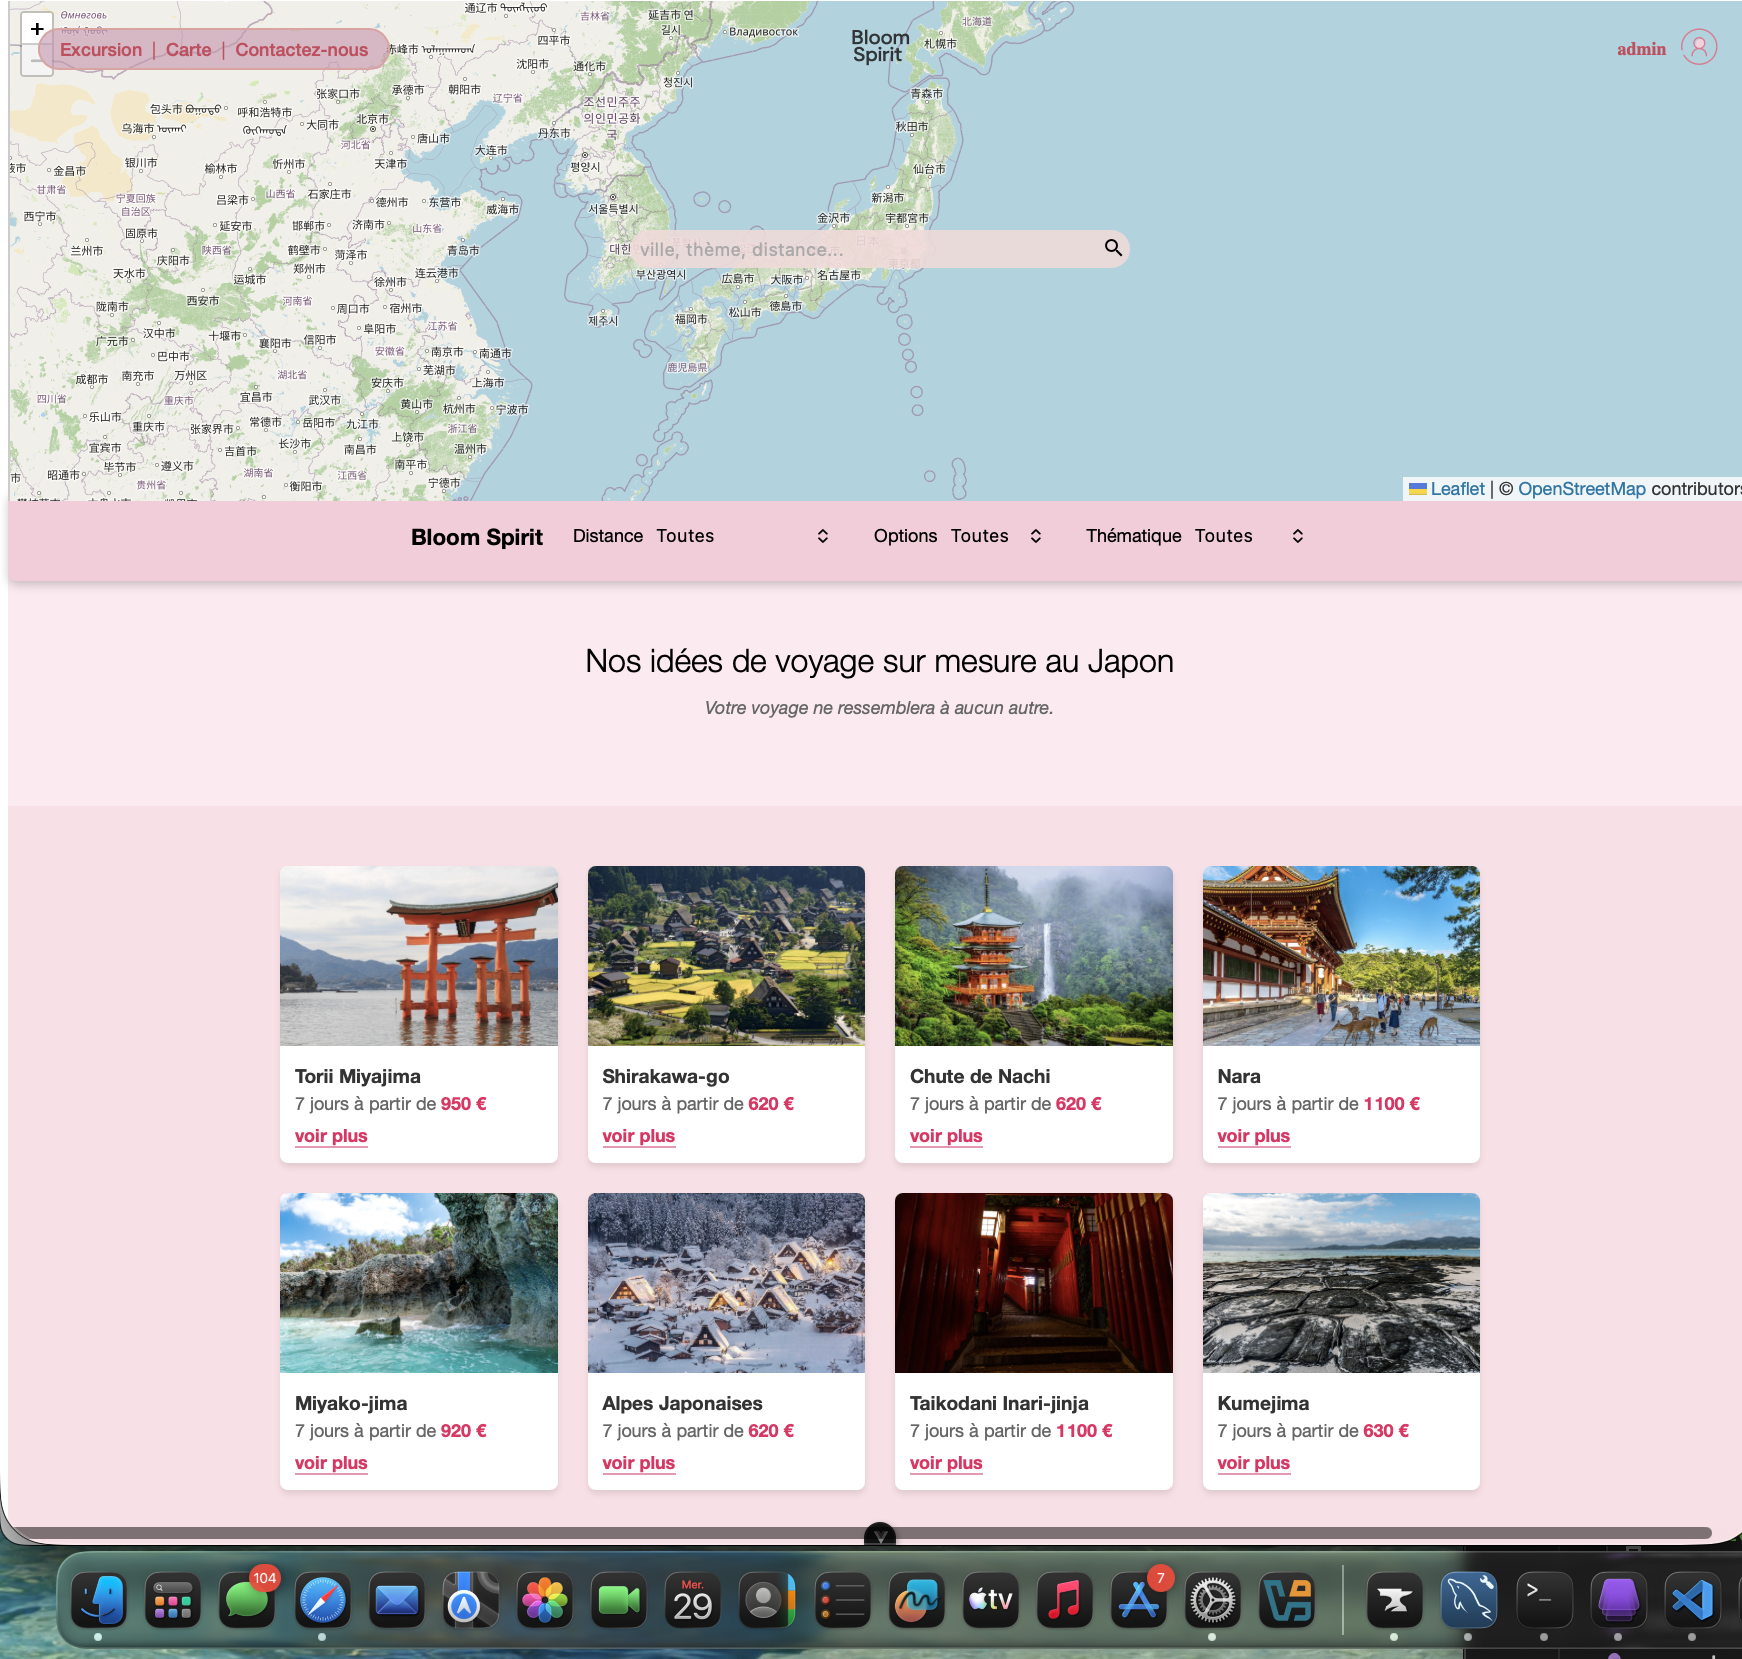
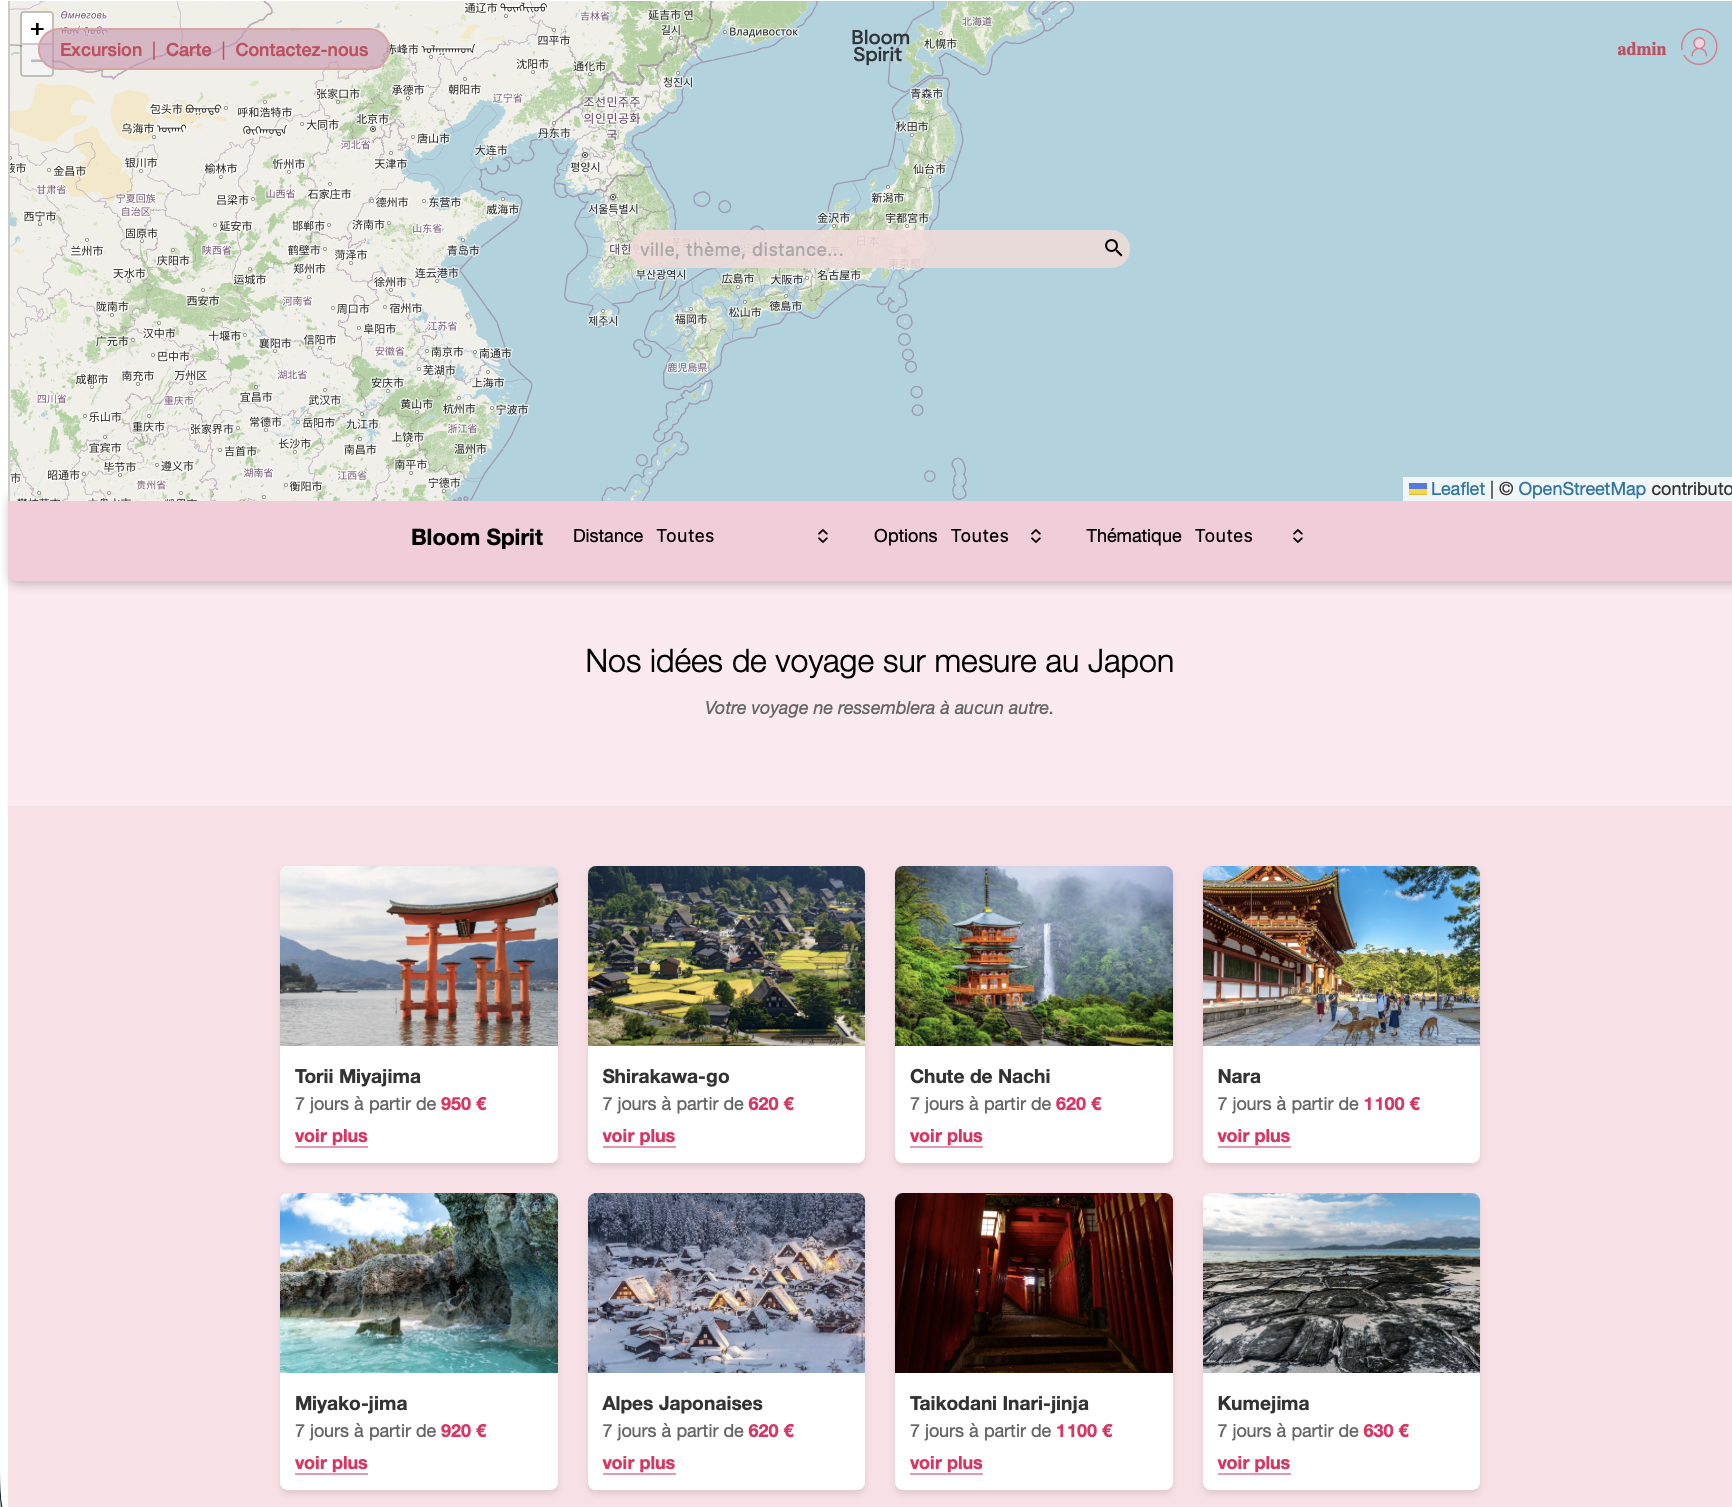
modif page bloomspirit

diff --git a/bloomSpirit.html b/bloomSpirit.html
@@ -3,36 +3,59 @@
     <head>
         <meta charset="utf-8">
         <link rel="stylesheet" href="style.css" type="text/css" />
+        <title>Projet</title>
     </head>
     <body>
-            <h1>BloomSpirit 🌸</h1>
-        <div id="langages">
-            <p class="langage" style="background-color: lightblue;">PHP</p>
-            <p class="langage" style="background-color: green;">SQL</p>
-            <p class="langage" style="background-color: greenyellow;">Vue</p>
-        </div>  
-        <div id="enjeux">
-            <h1>Principaux Enjeux</h1>
-            <ul>
-                <li>Réussir a organiser le travail en équipe</li>
-                <li>Organiser et stocker les excursions en base</li>
-            </ul>
+        <div>
+            <h1>Bloom Spirit 🌸</h1>
+            <div id="langages">
+                <p class="langage" style="background-color: lightblue;">PHP</p>
+                <p class="langage" style="background-color: green;">SQL</p>
+                <p class="langage" style="background-color: greenyellow;">Vue</p>
+            </div> 
         </div>
-
+        
+        <div class="description">
+            <div class="contexte">
+                <h1>Contexte</h1>
+                Bloom Spirit est un site web qui référence des excursions au Japon. 
+                Le site référence un grand nombre d'excursions contenant les étapes, les lieux visités, quels moyens de transports sont utilisés, les lieux d'hébergement.
+                <br>Ce projet a été réalisé en groupe de 5 dans le contexte de mon BTS.
+            </div>
+            <div class="vr"></div>
+            <div class="competences">
+                <div>
+                    <span class="competence">GPI</span> Gérer le patrimoine Informatique
+                </div>
+                <div>
+                    <span class="competence">PEL</span> Développer la présence en ligne de l'organisation
+                </div>
+                <div>
+                    <span class="competence">TMP</span> Travailler en mode projet
+                </div>
+                <div>
+                    <span class="competence">MAD</span> Mettre à disposition des utilisateurs un service Informatique
+                </div>
+            </div>
+        </div>
 
         <div class="pages">
 
             <img src="assets/images/accueilBloomSpirit.png" alt="accueil">
 
-            <img src="assets/images/crudBloomSpirit.png" alt="recette">
+            <img src="assets/images/rechercheBloomSpirit.png" alt="recherche">
 
-            <img src="assets/images/rechercheBloomSpirit.png" alt="reserves">
+            <img src="assets/images/crudBloomSpirit.png" alt="crud">
 
         </div>
 
         <div id="bilan">
-         <h1>bilan</h1>
-           Ma plus grande difficulté aura été d'organiser le travail équitablement entre les membres du groupe et en fonction de leur compétences.
+            <h1>Bilan</h1>
+            Difficultés :
+            <ul>
+                <li>Organiser le travail d'équipe</li>
+                <li></li>
+            </ul>
         </div>
 
         

diff --git a/index.html b/index.html
@@ -3,6 +3,7 @@
     <head>
         <meta charset="utf-8">
         <link rel="stylesheet" href="style.css" type="text/css" />
+        <title>Portfolio Hugo Berthonneau</title>
     </head>
     <body>
         <nav>
@@ -31,12 +32,20 @@
 
 
             <div id="aPropos">
-                <h1>À Propos</h1>
+                <div>
+                    <h1>À Propos</h1>
+                    <p>
+                        Étudiant en BTS SIO à Clermont-Ferrand, j'ai eu l'opportunité de découvrir concrètement le métier de développeur grâce à deux stages de six semaines réalisés au sein de la SOMEI.
+                    </p>
+                    <p>
+                        Ces expériences m'ont permis de participer à de vrais projets, de comprendre les exigences du développement logiciel en entreprise et d'affiner ma manière de travailler en équipe.
+                        Aujourd'hui, j'allie cette rigueur à une curiosité constante pour les nouvelles pratiques du développement afin de concevoir des solutions fiables, structurées et adaptées aux besoins réels des utilisateurs, tout en cherchant à améliorer continuellement mes compétences.
+                    </p>
+                    <p>
+                        Mon objectif est de poursuivre dans cette voie en intégrant des projets qui me permettent de progresser, d'expérimenter et de contribuer à la création d'outils numériques utiles et bien pensés.
+                    </p>
+                </div>
 
-                <p>
-                    Je suis étudiant en BTS SIO à Clermont-Ferrand. Mon parcours, complété par 2 stages de 1 mois et demi à la SOMEI, m'a permis d'acquérir une vision concrète du métier de développeur.
-                    Issu d'une formation STI2D, j'allie aujourd'hui logique technique et curiosité pour bâtir des infrastructures logicielles de qualité.
-                </p>
 
             </div>
 

diff --git a/recettes.html b/recettes.html
@@ -3,10 +3,11 @@
     <head>
         <meta charset="utf-8">
         <link rel="stylesheet" href="style.css" type="text/css" />
+        <title>Projet</title>
     </head>
     <body>
         <div>
-            <h1>QuoiFaireAvec (Generateur de recettes de cuisine) 🧑🍳</h1>
+            <h1>QuoiFaireAvec 🧑🍳</h1>
             <div id="langages">
                 <p class="langage" style="background-color: lightblue;">PHP</p>
                 <p class="langage" style="background-color: green;">SQL</p>
@@ -53,8 +54,8 @@
             Difficultés :
             <ul>
                 <li>Générer les recettes proprement via l'IA</li>
-                <li></li>
-            </ul>    
+                <li>Gérer l'authentification</li>
+            </ul>
         </div>
 
         

diff --git a/style.css b/style.css
@@ -88,6 +88,10 @@ a:hover {
     padding: 20px;
 }
 
+#aPropos {
+    display: flex;
+}
+
 #projets, #contact, .description, #bilan{
     background-color: rgb(43, 43, 43);
 }
